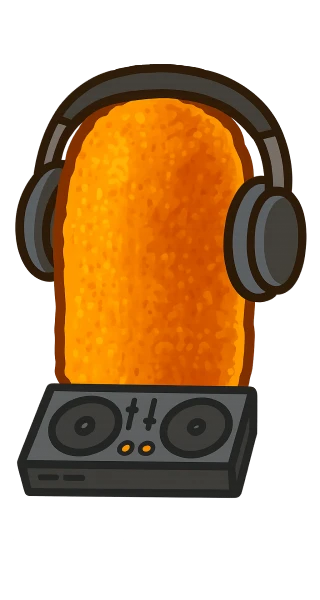
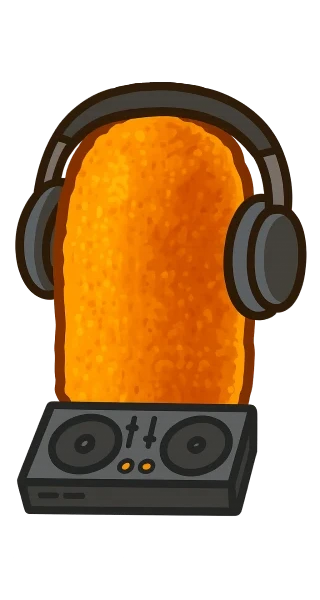
1 skin nueva (coqueta) + fondo optimizado + pequeño cambio de estilos para options

diff --git a/src/app/data/skin.data.ts b/src/app/data/skin.data.ts
@@ -21,7 +21,7 @@ export const SKINS: SkinModel[] = [
     description: 'Una croqueta deliciosa de jamón ibérico',
     image: '/assets/skins/croqueta-jamon.webp',
     rarity: 'Común',
-    unlockRequirement: { type: 'croquetas', value: 100 },
+    unlockRequirement: { type: 'croquetas', value: 500 },
   },
   {
     id: 3,
@@ -37,7 +37,7 @@ export const SKINS: SkinModel[] = [
     description: 'Una croqueta de queso cremosa y deliciosa',
     image: '/assets/skins/croqueta-queso.webp',
     rarity: 'Común',
-    unlockRequirement: { type: 'croquetas', value: 500 },
+    unlockRequirement: { type: 'croquetas', value: 2000 },
   },
   {
     id: 5,
@@ -61,6 +61,15 @@ export const SKINS: SkinModel[] = [
   // ============================================================
   {
     id: 7,
+    name: 'Coqueta',
+    description: 'Una croqueta divina y con estilo',
+    image: '/assets/skins/croqueta-coqueta.webp',
+    rarity: 'Rara',
+    particleImage: '/assets/skins/croqueta-coqueta.webp',
+    unlockRequirement: { type: 'level', value: 13 },
+  },
+  {
+    id: 8,
     name: 'Dorada',
     description: 'Una croqueta de lujo, probablemente tóxica.',
     image: '/assets/skins/croqueta-dorada.webp',
@@ -69,7 +78,7 @@ export const SKINS: SkinModel[] = [
     unlockRequirement: { type: 'level', value: 15 },
   },
   {
-    id: 8,
+    id: 9,
     name: 'Quemada',
     description: 'Demasiado tiempo en la freidora... crujiente nivel carbón.',
     image: '/assets/skins/croqueta-quemada.webp',
@@ -83,26 +92,26 @@ export const SKINS: SkinModel[] = [
   // 🔵 ÉPICAS
   // ============================================================
   {
-    id: 9,
+    id: 10,
     name: 'Cósmica',
     description: 'Brilla con el poder del universo. No apta para humanos.',
     image: '/assets/skins/croqueta-cosmica.webp',
     rarity: 'Épica',
     particleImage: '/assets/skins/croqueta-cosmica.webp',
-    unlockRequirement: { type: 'level', value: 20 },
+    unlockRequirement: { type: 'croquetas', value: 150000 },
     background: '/assets/backgrounds/bg-galaxy.webp',
   },
   {
-    id: 10,
+    id: 11,
     name: 'Rey',
     description: 'Su majestad la croqueta, soberana de todas las frituras.',
     image: '/assets/skins/croqueta-rey.webp',
     rarity: 'Épica',
     particleImage: '/assets/skins/croqueta-rey.webp',
-    unlockRequirement: { type: 'croquetas', value: 50000 },
+    unlockRequirement: { type: 'level', value: 20 },
   },
   {
-    id: 11,
+    id: 12,
     name: 'Papa',
     description: 'La croqueta elegida: sabia, firme y un poco pasada de sal.',
     image: '/assets/skins/croqueta-papa.webp',
@@ -110,12 +119,39 @@ export const SKINS: SkinModel[] = [
     particleImage: '/assets/skins/croqueta-papa.webp',
     unlockRequirement: { type: 'level', value: 30 },
   },
+  {
+    id: 13,
+    name: 'Empresaria',
+    description: 'Una croqueta lista para los negocios.',
+    image: '/assets/skins/croqueta-empresaria.webp',
+    rarity: 'Épica',
+    particleImage: '/assets/skins/croqueta-empresaria.webp',
+    unlockRequirement: { type: 'croquetas', value: 750000 },
+  },
+  {
+    id: 14,
+    name: 'DJ',
+    description: 'La croqueta que pone la música en la fiesta.',
+    image: '/assets/skins/croqueta-dj.webp',
+    rarity: 'Épica',
+    particleImage: '/assets/skins/croqueta-dj.webp',
+    unlockRequirement: { type: 'level', value: 80 },
+  },
 
   // ============================================================
   // 🟣 LEGENDARIAS
   // ============================================================
   {
-    id: 12,
+    id: 15,
+    name: 'Super',
+    description: 'Una croqueta heroica que salva el día.',
+    image: '/assets/skins/croqueta-super.webp',
+    rarity: 'Legendaria',
+    particleImage: '/assets/skins/croqueta-super.webp',
+    unlockRequirement: { type: 'croquetas', value: 2_500_000 },
+  },
+  {
+    id: 16,
     name: 'Dios',
     description: 'Más allá de la bechamel y el pan rallado...',
     image: '/assets/skins/croqueta-dios.webp',
@@ -125,7 +161,7 @@ export const SKINS: SkinModel[] = [
     background: '/assets/backgrounds/bg-heaven.webp',
   },
   {
-    id: 13,
+    id: 17,
     name: 'Phillipe',
     description: 'phillipe.',
     image: '/assets/skins/croqueta-phillipe.webp',
@@ -136,7 +172,7 @@ export const SKINS: SkinModel[] = [
     background: '/assets/backgrounds/bg-phillipe.webp',
   },
   {
-    id: 14,
+    id: 18,
     name: 'Cookie',
     description: 'Una croqueta en crisis de identidad.',
     image: '/assets/skins/croqueta-cookie.webp',
@@ -146,7 +182,7 @@ export const SKINS: SkinModel[] = [
     unlockRequirement: { type: 'level', value: 60 },
   },
   {
-    id: 15,
+    id: 19,
     name: '¿Plátano?',
     description: 'Una croqueta tropical que te deja con dudas existenciales.',
     image: '/assets/skins/croqueta-platano.webp',
@@ -156,7 +192,7 @@ export const SKINS: SkinModel[] = [
     unlockRequirement: { type: 'exp', value: 100000 },
   },
   {
-    id: 16,
+    id: 20,
     name: 'Bocadillo...',
     description: 'Un bocadillo relleno de croquetas, para los más valientes.',
     image: '/assets/skins/croqueta-bocadillo.webp',
@@ -168,39 +204,12 @@ export const SKINS: SkinModel[] = [
   // 🔴 MÍTICA
   // ============================================================
   {
-    id: 17,
+    id: 21,
     name: 'Real',
     description: 'La croqueta definitiva.',
     image: '/assets/skins/croqueta-real.webp',
     rarity: 'Mítica',
     particleImage: '/assets/skins/croqueta-real.webp',
     unlockRequirement: { type: 'level', value: 100 },
-  },
-  {
-    id: 18,
-    name: 'Empresaria',
-    description: 'Una croqueta lista para los negocios.',
-    image: '/assets/skins/croqueta-empresaria.webp',
-    rarity: 'Legendaria',
-    particleImage: '/assets/skins/croqueta-empresaria.webp',
-    unlockRequirement: { type: 'croquetas', value: 75000 },
-  },
-  {
-    id: 19,
-    name: 'DJ',
-    description: 'La croqueta que pone la música en la fiesta.',
-    image: '/assets/skins/croqueta-dj.webp',
-    rarity: 'Legendaria',
-    particleImage: '/assets/skins/croqueta-dj.webp',
-    unlockRequirement: { type: 'level', value: 80 },
-  },
-  {
-    id: 20,
-    name: 'Super',
-    description: 'Una croqueta heroica que salva el día.',
-    image: '/assets/skins/croqueta-super.webp',
-    rarity: 'Legendaria',
-    particleImage: '/assets/skins/croqueta-super.webp',
-    unlockRequirement: { type: 'achievement', id: 'heroic_deed' },
   },
 ];

diff --git a/src/app/ui/card/card.css b/src/app/ui/card/card.css
@@ -25,7 +25,7 @@
   gap: 1rem;
 
   border: 2px solid var(--border);
-  border-radius: 0.5rem;
+  border-radius: 1rem;
 
   background: var(--background);
   box-shadow: 0px 4px rgba(184, 103, 21, 0.3), 0px 8px rgba(184, 103, 21, 0.2),

diff --git a/src/app/pages/options/options.html b/src/app/pages/options/options.html
@@ -1,4 +1,4 @@
-<div class="p-4 gap-8 flex flex-col">
+<div class="p-2 gap-8 flex flex-col">
   <!-- VOLUMEN -->
   <app-card>
     <div class="flex flex-col gap-6 w-full h-full">

diff --git a/src/app/ui/upgrade/upgrade.css b/src/app/ui/upgrade/upgrade.css
@@ -5,6 +5,8 @@
 :host(.upgrade) {
   min-width: 150px;
   min-height: 221px;
+  max-width: 150px;
+  max-height: 221px;
   box-sizing: border-box;
   display: block;
 }
